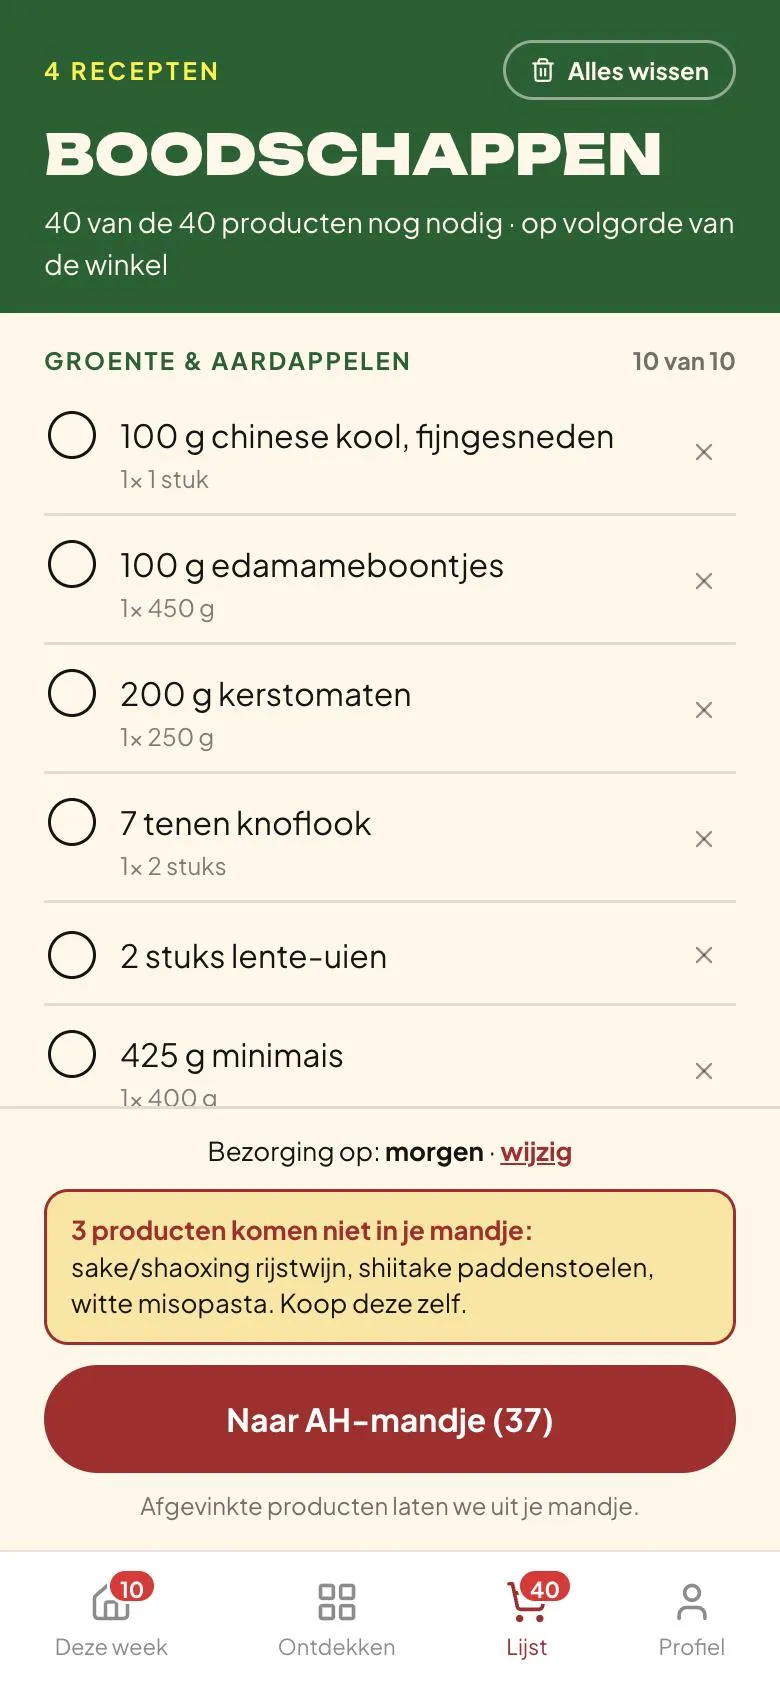
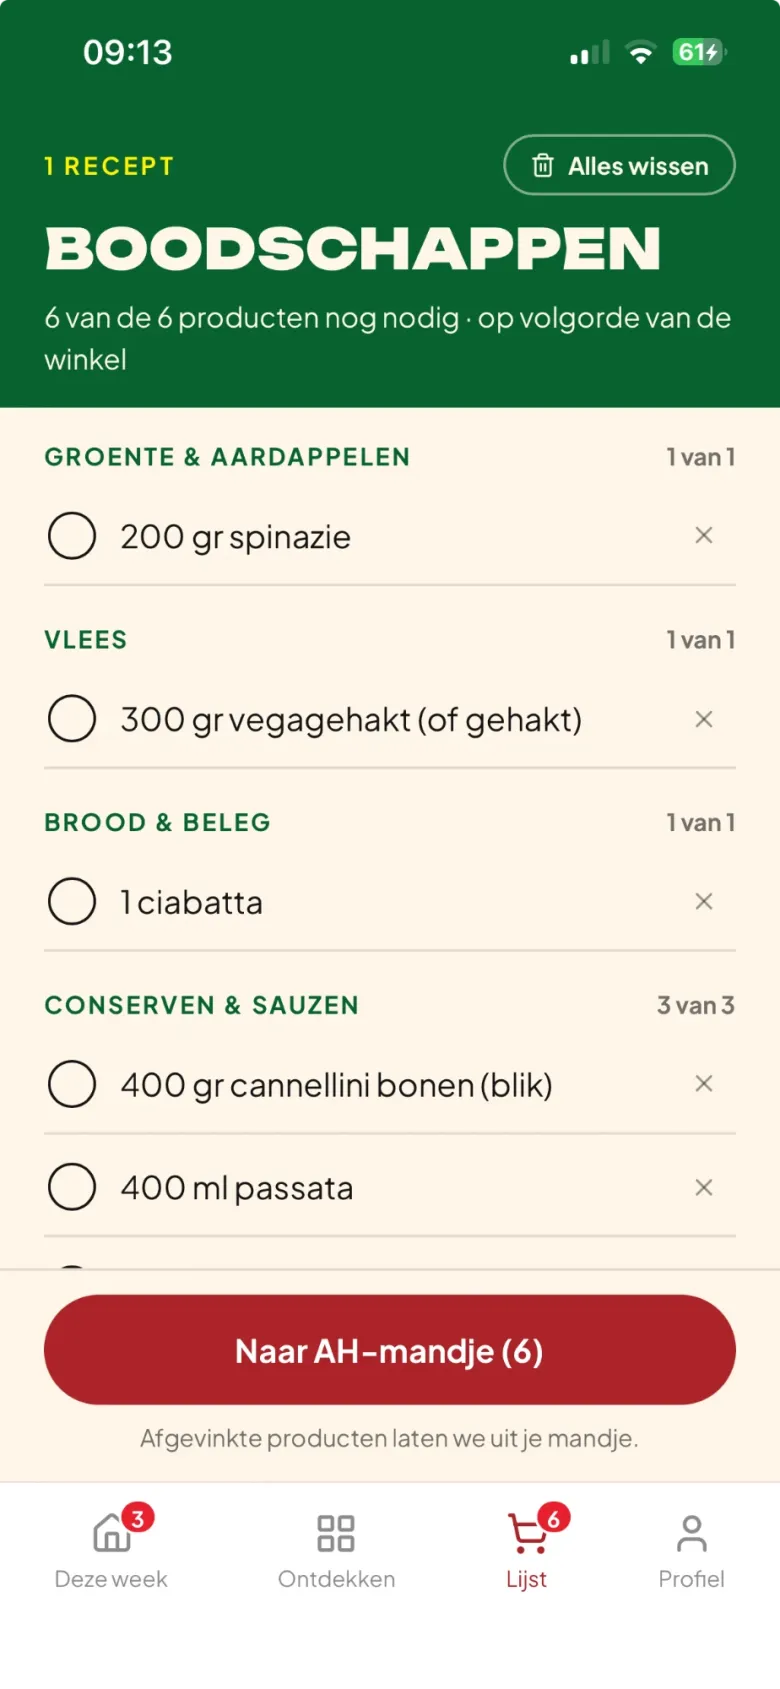
Onboarding: vraag naar je voorraadkast, en twee nieuwe schermafbeeldingen (#93)
Een zesde vraag, vóór de winkel: wat heb je standaard in huis? De keuze
gaat naar voorraad_item, dezelfde rijen als het scherm Voorraadkast. De
uitlegkaarten Voorraadkast en Naar je supermarkt tonen nu de
schermafbeeldingen van Reinoud.

diff --git a/app/src/screens/Onboarding.tsx b/app/src/screens/Onboarding.tsx
@@ -1,13 +1,16 @@
 import { useEffect, useRef, useState } from 'react'
 import { useNavigate } from 'react-router-dom'
 import { useQueryClient } from '@tanstack/react-query'
-import { Button, Icon, IconButton, ProgressBar, Woordmerk } from '../ds'
+import { Button, Chip, Icon, IconButton, ProgressBar, Woordmerk } from '../ds'
 import { Label, Titel } from '../components/Layout'
 import { Grens, Laden } from '../components/Staten'
 import { AANTAL_UITLEGKAARTEN, Uitleg } from '../components/Uitleg'
 import { AllergieKeuze, KeukenKeuze } from '../components/voorkeuren'
 import { haalDezeWeek, sleutels, useLijstActies, useVoorkeuren, useVoorkeurenOpslaan } from '../lib/queries'
-import { useKeukens } from '../lib/queries2'
+import { useKeukens, useVoorraad, useVoorraadMuteren } from '../lib/queries2'
+import { VOORRAAD_SUGGESTIES } from '../lib/voorraad'
+import { ingredientKey } from '../lib/schaal'
+import { DROGE_KRUIDEN } from '../lib/kruiden'
 import { opsomming, vastVoorJou } from '../lib/allergenen'
 import { kiesWeek, vegaDoel, vegaMinimumVoor } from '../lib/weekvullen'
 import { weekStart } from '../lib/week'
@@ -17,7 +20,7 @@ import type { Voorkeuren } from '../lib/database.types'
 
 /**
  * De onboarding: één keer na het aanmaken van een account. Eerst de uitleg,
- * dan vijf vragen, en daarna sta je op Deze week met een weekmenu dat bij je
+ * dan zes vragen, en daarna sta je op Deze week met een weekmenu dat bij je
  * huishouden past.
  *
  * - De antwoorden gaan naar dezelfde kolommen als Instellingen
@@ -30,11 +33,14 @@ import type { Voorkeuren } from '../lib/database.types'
  * - App.tsx stuurt hierheen zolang onboarding_klaar_op leeg is.
  */
 
-const VRAGEN = ['personen', 'kookavonden', 'keukens', 'allergieen', 'winkel'] as const
+const VRAGEN = ['personen', 'kookavonden', 'keukens', 'allergieen', 'voorraad', 'winkel'] as const
 type Vraag = (typeof VRAGEN)[number]
 type Winkel = Voorkeuren['voorkeurswinkel']
 
 const MAX_PERSONEN = 8
+
+/** De producten waar de voorraadvraag naar vraagt: de bovenste van de voorraadkast. */
+const VOORRAAD_KEUZES = VOORRAAD_SUGGESTIES.slice(0, 15)
 
 interface Antwoorden {
   personen: number
@@ -123,6 +129,26 @@ function Verloop({ voorkeuren }: { voorkeuren: Voorkeuren }) {
   const [fout, setFout] = useState('')
   const [bezig, setBezig] = useState(false)
 
+  // De voorraadkast staat niet bij de voorkeuren maar in voorraad_item. Wat
+  // je aantikt is een concept; null = nog niet aangeraakt, dan geldt wat er al staat.
+  const voorraad = useVoorraad()
+  const { toevoegen, verwijderen } = useVoorraadMuteren()
+  const [voorraadKeuze, setVoorraadKeuze] = useState<string[] | null>(null)
+  const inKast = new Set((voorraad.data ?? []).filter((i) => i.in_huis).map((i) => i.ingredient_key))
+  const voorraadGekozen = voorraadKeuze ?? VOORRAAD_KEUZES.filter((n) => inKast.has(ingredientKey(n)))
+  const voorraadOpslag = useRef<Promise<void>>(Promise.resolve())
+
+  /** Zet wat je koos in je voorraadkast en haalt eruit wat je weer uittikte. */
+  function bewaarVoorraad(): Promise<void> {
+    const erbij = voorraadGekozen.filter((n) => !inKast.has(ingredientKey(n)))
+    const eraf = VOORRAAD_KEUZES.map(ingredientKey)
+      .filter((key) => inKast.has(key) && !voorraadGekozen.some((n) => ingredientKey(n) === key))
+    return Promise.all([
+      ...erbij.map((n) => toevoegen.mutateAsync(n)),
+      ...eraf.map((key) => verwijderen.mutateAsync(key)),
+    ]).then(() => undefined)
+  }
+
   const gestart = useRef(false)
   useEffect(() => {
     if (gestart.current || hervat) return
@@ -144,6 +170,7 @@ function Verloop({ voorkeuren }: { voorkeuren: Voorkeuren }) {
     kookavonden: { kookavonden: antw.avonden, vega_minimum: vegaMinimum },
     keukens: { favoriete_keukens: keukensOpslaan },
     allergieen: { allergieen: antw.allergieen },
+    voorraad: {},
     winkel: { voorkeurswinkel: antw.winkel },
   }
 
@@ -163,7 +190,13 @@ function Verloop({ voorkeuren }: { voorkeuren: Voorkeuren }) {
   }
 
   function beantwoord(extra: Partial<Voorkeuren> = {}) {
-    opslaan.mutate({ ...wijziging[naam], ...extra })
+    if (naam === 'voorraad') {
+      voorraadOpslag.current = bewaarVoorraad()
+      // Mislukt het hier, dan proberen we het bij het afronden nog een keer.
+      voorraadOpslag.current.catch(() => undefined)
+    } else {
+      opslaan.mutate({ ...wijziging[naam], ...extra })
+    }
     meet('vraag_beantwoord', { vraag: naam })
     verder(overgeslagen.filter((v) => v !== naam))
   }
@@ -171,13 +204,16 @@ function Verloop({ voorkeuren }: { voorkeuren: Voorkeuren }) {
   function slaOver() {
     // Wat je aantikte maar niet bevestigde gaat terug naar wat er stond.
     const stond = uitVoorkeuren(voorkeuren)
-    setAntw({
-      ...antw,
-      ...(naam === 'personen' ? { personen: stond.personen }
-        : naam === 'kookavonden' ? { avonden: stond.avonden, vega: stond.vega }
-        : naam === 'keukens' ? { keukens: stond.keukens }
-        : { allergieen: stond.allergieen }),
-    })
+    if (naam === 'voorraad') setVoorraadKeuze(null)
+    else {
+      setAntw({
+        ...antw,
+        ...(naam === 'personen' ? { personen: stond.personen }
+          : naam === 'kookavonden' ? { avonden: stond.avonden, vega: stond.vega }
+          : naam === 'keukens' ? { keukens: stond.keukens }
+          : { allergieen: stond.allergieen }),
+      })
+    }
     meet('vraag_overgeslagen', { vraag: naam })
     verder(overgeslagen.includes(naam) ? overgeslagen : [...overgeslagen, naam])
   }
@@ -212,6 +248,8 @@ function Verloop({ voorkeuren }: { voorkeuren: Voorkeuren }) {
       // Alles nog één keer in één schrijfactie: dan staat het er zeker voordat
       // de generator het weekmenu maakt.
       await opslaan.mutateAsync(Object.assign({}, ...VRAGEN.map((v) => wijziging[v])) as Partial<Voorkeuren>)
+      // De voorraadkast moet er ook staan: wat in huis is komt niet op de lijst.
+      await voorraadOpslag.current.catch(() => bewaarVoorraad())
       const aantal = vullen ? await vulWeek() : 0
       await opslaan.mutateAsync({ onboarding_klaar_op: new Date().toISOString() })
       if (vullen) meet('week_gevuld_onboarding', { recepten: aantal })
@@ -278,6 +316,8 @@ function Verloop({ voorkeuren }: { voorkeuren: Voorkeuren }) {
       ['kookavonden', `${antw.avonden === 7 ? 'Elke avond' : `${antw.avonden} ${antw.avonden === 1 ? 'avond' : 'avonden'}`}, ${antw.vega} vegetarisch`],
       ['keukens', keukensOpslaan.length > 0 ? keukensOpslaan.join(', ') : 'Alle keukens'],
       ['allergieen', antw.allergieen.length > 0 ? `Zonder ${opsomming(antw.allergieen)}` : 'Geen allergieën'],
+      ['voorraad', voorraadGekozen.length === 0 ? 'Voorraadkast leeg'
+        : `${voorraadGekozen.length} ${voorraadGekozen.length === 1 ? 'product' : 'producten'} in huis`],
       ['winkel', antw.winkel === 'ah' ? 'Albert Heijn' : 'Jumbo'],
     ]
     return (
@@ -345,6 +385,7 @@ function Verloop({ voorkeuren }: { voorkeuren: Voorkeuren }) {
     kookavonden: ['Hoeveel avonden wil je koken?', 'Per week. De rest laat je vrij.'],
     keukens: ['Welke keukens vind je lekker?', 'Kies er zoveel als je wilt. Daarvan krijg je meer in je weekmenu. De rest blijft gewoon te vinden.'],
     allergieen: ['Moet Pinch ergens rekening mee houden?', 'Kies de allergieën bij jou thuis.'],
+    voorraad: ['Wat heb je standaard in huis?', 'Dat laat Pinch van je boodschappenlijst af. Aanvullen kan later in je voorraadkast.'],
     winkel: ['Waar doe je je boodschappen?', 'Naar deze supermarkt stuurt Pinch je boodschappenlijst.'],
   }
 
@@ -439,6 +480,27 @@ function Verloop({ voorkeuren }: { voorkeuren: Voorkeuren }) {
           </>
         )}
 
+        {naam === 'voorraad' && (
+          <>
+            <div style={{ display: 'flex', flexWrap: 'wrap', gap: 8 }}>
+              {VOORRAAD_KEUZES.map((n) => {
+                const aan = voorraadGekozen.includes(n)
+                return (
+                  <Chip
+                    key={n} groot selected={aan}
+                    onClick={() => setVoorraadKeuze(aan ? voorraadGekozen.filter((x) => x !== n) : [...voorraadGekozen, n])}
+                  >{n}</Chip>
+                )
+              })}
+            </div>
+            {voorraadGekozen.includes(DROGE_KRUIDEN) && (
+              <p style={{ ...kleinStijl, flex: 'none', marginTop: 4 }}>
+                Droge kruiden staat voor je hele kruidenrek. Die blijven op je lijst staan, maar gaan niet in je mandje.
+              </p>
+            )}
+          </>
+        )}
+
         {naam === 'winkel' && (
           <>
             <div role="radiogroup" aria-label="Supermarkt" style={lijstStijl}>
@@ -464,7 +526,7 @@ function Verloop({ voorkeuren }: { voorkeuren: Voorkeuren }) {
             ? <div style={{ height: 44 }} />
             : (
               <button onClick={slaOver} style={{ ...linkStijl, color: 'var(--c-red)', textDecoration: 'none', fontSize: 14 }}>
-                {naam === 'allergieen' ? 'Sla over' : 'Sla over, kies voor mij'}
+                {naam === 'allergieen' || naam === 'voorraad' ? 'Sla over' : 'Sla over, kies voor mij'}
               </button>
             )}
         </div>

diff --git a/app/src/screens/Voorraadkast.tsx b/app/src/screens/Voorraadkast.tsx
@@ -4,7 +4,8 @@ import { Inhoud, Kop, Label, Scherm, TerugKnop, Titel, Voet } from '../component
 import { Grens, Leeg } from '../components/Staten'
 import { Dialoog } from '../components/Dialoog'
 import { useVoorraad, useVoorraadMuteren, type VoorraadItem } from '../lib/queries2'
-import { DROGE_KRUIDEN, DROGE_KRUIDEN_KEY, DROGE_KRUIDEN_UITLEG } from '../lib/kruiden'
+import { DROGE_KRUIDEN_KEY, DROGE_KRUIDEN_UITLEG } from '../lib/kruiden'
+import { VOORRAAD_SUGGESTIES } from '../lib/voorraad'
 import { ingredientKey } from '../lib/schaal'
 import { useBoodschappen } from '../lib/queries'
 
@@ -14,17 +15,6 @@ import { useBoodschappen } from '../lib/queries'
  */
 const ALTIJD_IN_HUIS = ['Zout', 'Peper', 'Suiker', 'Bouillon', 'Olijfolie', 'Zonnebloemolie']
 
-/**
- * Wat de meeste mensen standaard in huis hebben. We tonen er steeds een paar;
- * voeg je er een toe, dan schuift de volgende door. Zout, peper, suiker en
- * bouillon staan er niet bij: die komen sowieso nooit op de lijst (altijdInHuis).
- */
-const SUGGESTIES = [
-  DROGE_KRUIDEN, 'Olijfolie', 'Uien', 'Knoflook', 'Rijst', 'Pasta', 'Eieren', 'Boter',
-  'Zonnebloemolie', 'Bloem', 'Sojasaus', 'Tomatenpuree', 'Mosterd', 'Honing', 'Azijn',
-  'Balsamicoazijn', 'Ketjap', 'Sambal', 'Maizena', 'Melk', 'Parmezaan', 'Paneermeel',
-  'Couscous', 'Passata', 'Kokosmelk', 'Mayonaise',
-]
 const ZICHTBAAR = 8
 
 /**
@@ -47,7 +37,7 @@ export function Voorraadkast() {
   const inHuis = items.filter((i) => i.in_huis).length
   const groepen = groepeer(items)
   const inKast = new Set(items.map((i) => i.ingredient_key))
-  const suggesties = SUGGESTIES.filter((s) => !inKast.has(ingredientKey(s))).slice(0, ZICHTBAAR)
+  const suggesties = VOORRAAD_SUGGESTIES.filter((s) => !inKast.has(ingredientKey(s))).slice(0, ZICHTBAAR)
 
   function voegToe(naam: string) {
     if (!naam.trim()) return

diff --git a/app/src/components/Uitleg.tsx b/app/src/components/Uitleg.tsx
@@ -12,7 +12,7 @@ import lijst from '../assets/uitleg/lijst.webp'
  * Elke kaart is een schermafbeelding van de app zelf, met één ding uitgelicht:
  * de rest is gedimd. Geen nagetekende schermen: wat je hier ziet is wat je
  * daarna tegenkomt. Verandert een scherm, maak dan een nieuwe afbeelding
- * (src/assets/uitleg/, 780 × 1688 px: een telefoon van 390 breed) en zet het uitgelichte
+ * (src/assets/uitleg/, 780 px breed; de verhouding staat per kaart) en zet het uitgelichte
  * vlak opnieuw.
  */
 
@@ -54,14 +54,14 @@ const KAARTEN: Kaart[] = [
   {
     kop: 'Voorraadkast',
     tekst: 'Laat Pinch weten wat je standaard in huis hebt, zoals olie, rijst of kruiden. Dat gaat niet mee in je bestelling.',
-    beeld: voorraadkast, alt: 'Het scherm Voorraadkast, met de producten die je in één tik toevoegt uitgelicht: olijfolie, uien, rijst.',
-    verhouding: 1688 / 780, licht: { x: 0.05, y: 0.842, b: 0.9, h: 0.145 }, rond: 18,
+    beeld: voorraadkast, alt: 'Het scherm Voorraadkast, met een paar producten die in huis zijn uitgelicht: azijn, bloem, boter.',
+    verhouding: 2000 / 924, licht: { x: 0.035, y: 0.405, b: 0.93, h: 0.2 }, rond: 18,
   },
   {
     kop: 'Naar je supermarkt',
     tekst: 'Eén tik en alles gaat naar je mandje bij AH of Jumbo.',
     beeld: lijst, alt: 'De boodschappenlijst, met de mandjeknop uitgelicht.',
-    verhouding: 1688 / 780, licht: { x: 0.045, y: 0.805, b: 0.91, h: 0.071 }, rond: 999,
+    verhouding: 2000 / 924, licht: { x: 0.045, y: 0.762, b: 0.91, h: 0.074 }, rond: 999,
   },
 ]
 

diff --git a/app/src/lib/voorraad.ts b/app/src/lib/voorraad.ts
@@ -1,5 +1,20 @@
 import { enkelvoudVormen } from './ah'
 import { BEREIDING, canoniek } from './synoniemen'
+import { DROGE_KRUIDEN } from './kruiden'
+
+/**
+ * Wat de meeste mensen standaard in huis hebben, van vaak naar minder vaak.
+ * De voorraadkast toont er steeds een paar (voeg je er een toe, dan schuift de
+ * volgende door); de onboarding vraagt naar de eerste rij. Zout, peper, suiker
+ * en bouillon staan er niet bij: die komen sowieso nooit op de lijst
+ * (altijdInHuis).
+ */
+export const VOORRAAD_SUGGESTIES = [
+  DROGE_KRUIDEN, 'Olijfolie', 'Uien', 'Knoflook', 'Rijst', 'Pasta', 'Eieren', 'Boter',
+  'Zonnebloemolie', 'Bloem', 'Sojasaus', 'Tomatenpuree', 'Mosterd', 'Honing', 'Azijn',
+  'Balsamicoazijn', 'Ketjap', 'Sambal', 'Maizena', 'Melk', 'Parmezaan', 'Paneermeel',
+  'Couscous', 'Passata', 'Kokosmelk', 'Mayonaise',
+]
 
 /**
  * Soorten die in je voorraadkast onder één naam staan. "Azijn" is de gewone

diff --git a/CLAUDE.md b/CLAUDE.md
@@ -490,7 +490,7 @@ in twee fasen op: voorkeur, dan de rest) en zet hun chips vooraan.
 ## Onboarding
 
 Een nieuwe gebruiker ziet na het aanmelden één keer een welkomscherm, vijf
-uitlegkaarten en vijf vragen (`/welkom`, `src/screens/Onboarding.tsx`) en
+uitlegkaarten en zes vragen (`/welkom`, `src/screens/Onboarding.tsx`) en
 staat daarna op Deze week.
 
 - **`Poort` in `App.tsx` stuurt naar `/welkom`** zolang
@@ -507,6 +507,11 @@ staat daarna op Deze week.
 - **"Vul mijn week" zet direct recepten op je lijst** (`kiesWeek`, zoveel als
   `kookavonden`), zonder bevestigscherm. Vegetarisch vraag je als "2 van je
   4 avonden"; `vegaMinimumVoor` rekent dat om naar "x van de 10".
+- **De voorraadvraag schrijft naar `voorraad_item`**, niet naar de
+  voorkeuren: dezelfde rijen als het scherm Voorraadkast. De chips zijn de
+  eerste vijftien uit `VOORRAAD_SUGGESTIES` (`src/lib/voorraad.ts`), die de
+  voorraadkast ook gebruikt. Het moet er staan vóór "Vul mijn week": wat in
+  huis is komt niet op de lijst.
 - **Keukens komen uit de pool** (`useKeukens`), niet uit een vaste lijst: een
   chip die bij geen recept hoort doet niets in de generator.
 - **Opslaan per stap**, en waar je was staat in `localStorage`
